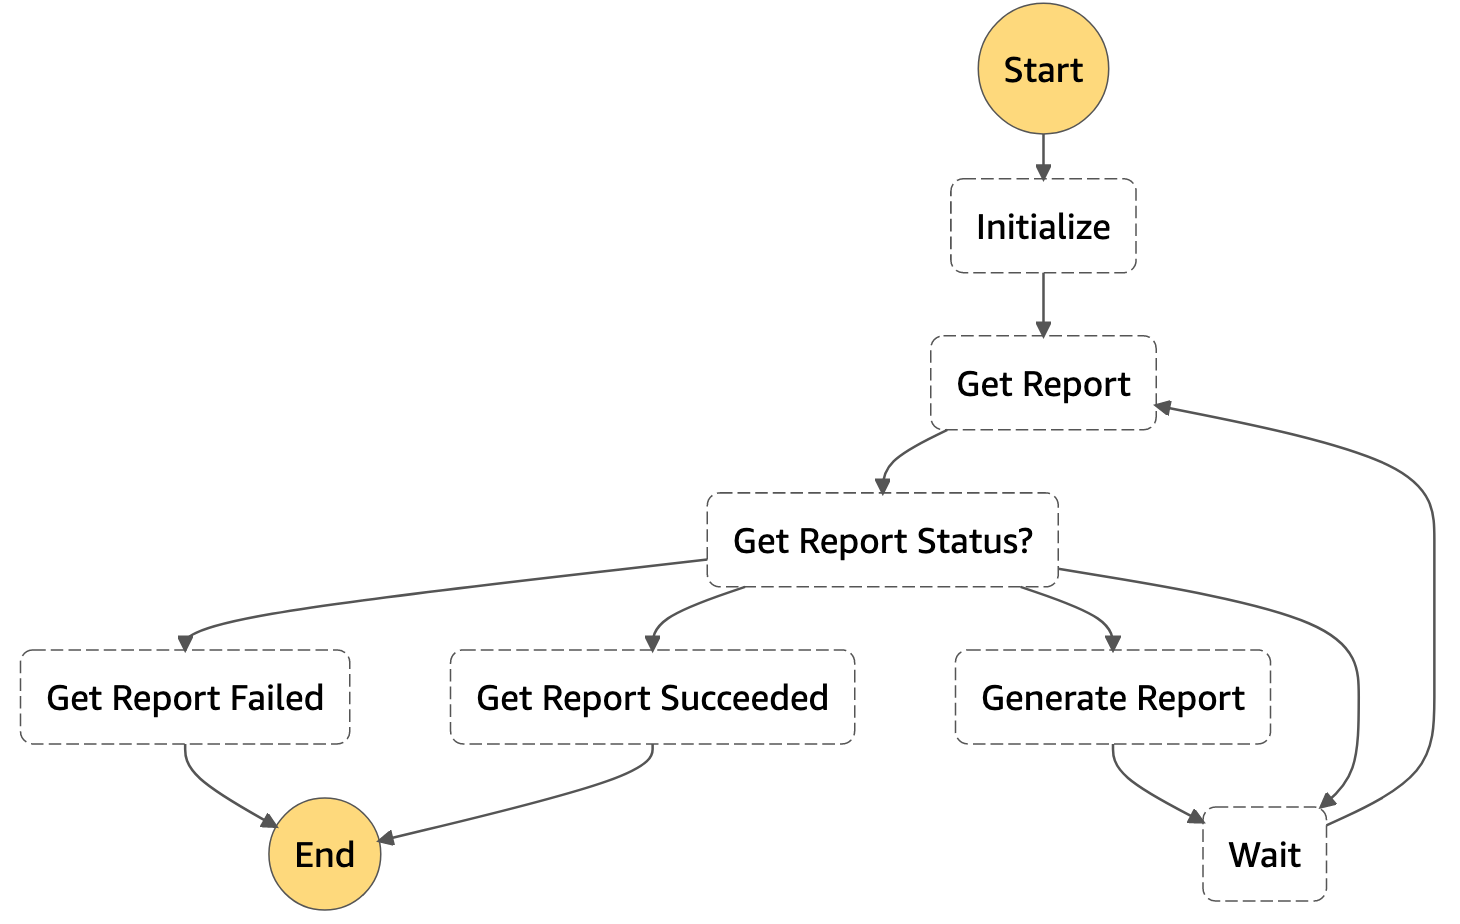
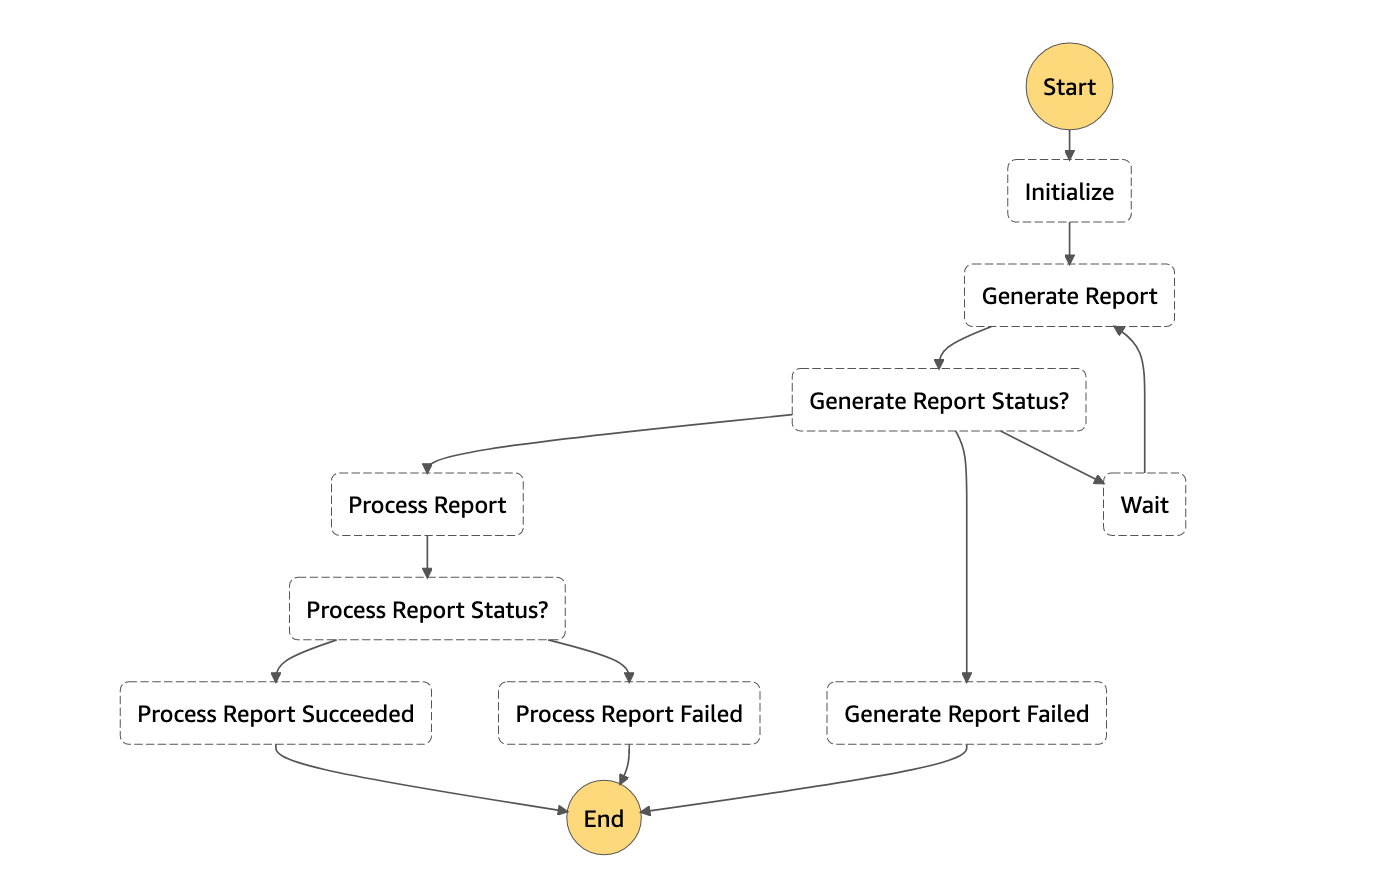
Added status check for Generate Report Get Report states renamed as ProcessReport Report processing invoked only when the report generation is complete Updated state diagram

diff --git a/functions/process_report/app.py b/functions/process_report/app.py
@@ -11,12 +11,12 @@ s3_client = boto3.client('s3')
 sns_client = boto3.client('sns')
 
 
-def cmd_success(response):
+def cmd_success(response):  # generic helper function to be moved to separate layer
     metadata = response['ResponseMetadata']
     return True if metadata['HTTPStatusCode'] == 200 else False
 
 
-def print_http_metadata(response):
+def print_http_metadata(response):  # generic helper function to be moved to separate layer
     print(response['ResponseMetadata'])
 
 
@@ -36,10 +36,8 @@ def get_flagged_entries(report_content):
 
 def lambda_handler(event, context):
     response = ({'state': 'failed', 'errorCode': None, **event['report']})
-    response['get_pass_count'] += 1  # increment pass count
 
     try:
-        print(f'Pass count {response["get_pass_count"]:2d}')
         iam_response = iam_client.get_credential_report()
         if cmd_success(iam_response):
             dt = iam_response['GeneratedTime']
@@ -63,6 +61,7 @@ def lambda_handler(event, context):
     except (iam_client.exceptions.CredentialReportNotReadyException,
             iam_client.exceptions.CredentialReportNotPresentException,
             iam_client.exceptions.CredentialReportExpiredException) as err:
+        # Credential report should be available when this function is called
         response['errorCode'] = err.response['Error']['Code']
 
     return response

diff --git a/functions/generate_report/app.py b/functions/generate_report/app.py
@@ -1,15 +1,27 @@
 import boto3
 
-
 iam_client = boto3.client('iam')
 
 
+def cmd_success(response):  # generic helper function to be moved to separate layer
+    metadata = response['ResponseMetadata']
+    return True if metadata['HTTPStatusCode'] == 200 else False
+
+
 def lambda_handler(event, context):
-    # initial state to failed
+    # initialize state to failed
     response = {'state': 'failed', 'errorCode': None, **event['report']}
-    cmd_response = iam_client.generate_credential_report()
-    response['state'] = cmd_response['State']
+    response['get_pass_count'] += 1  # increment pass count
+    print(f'Pass count {response["get_pass_count"]:2d}')
+    iam_response = iam_client.generate_credential_report()
+    if cmd_success(iam_response):
+        print(f'IAM Response State: {iam_response["State"]}')
+        if iam_response['State'] == 'COMPLETE':
+            response['state'] = 'success'
+        elif iam_response['State'] == 'STARTED' or iam_response['State'] == 'INPROGRESS':
+            response['state'] = 'in progress'  # treat both status as In Progress
+        else:
+            print(f'Unexpected status {iam_response["State"]}!')  # unexpected response
+    else:
+        print(f'Generate Credential report failed {iam_response["State"]}')
     return response
-
-
-
